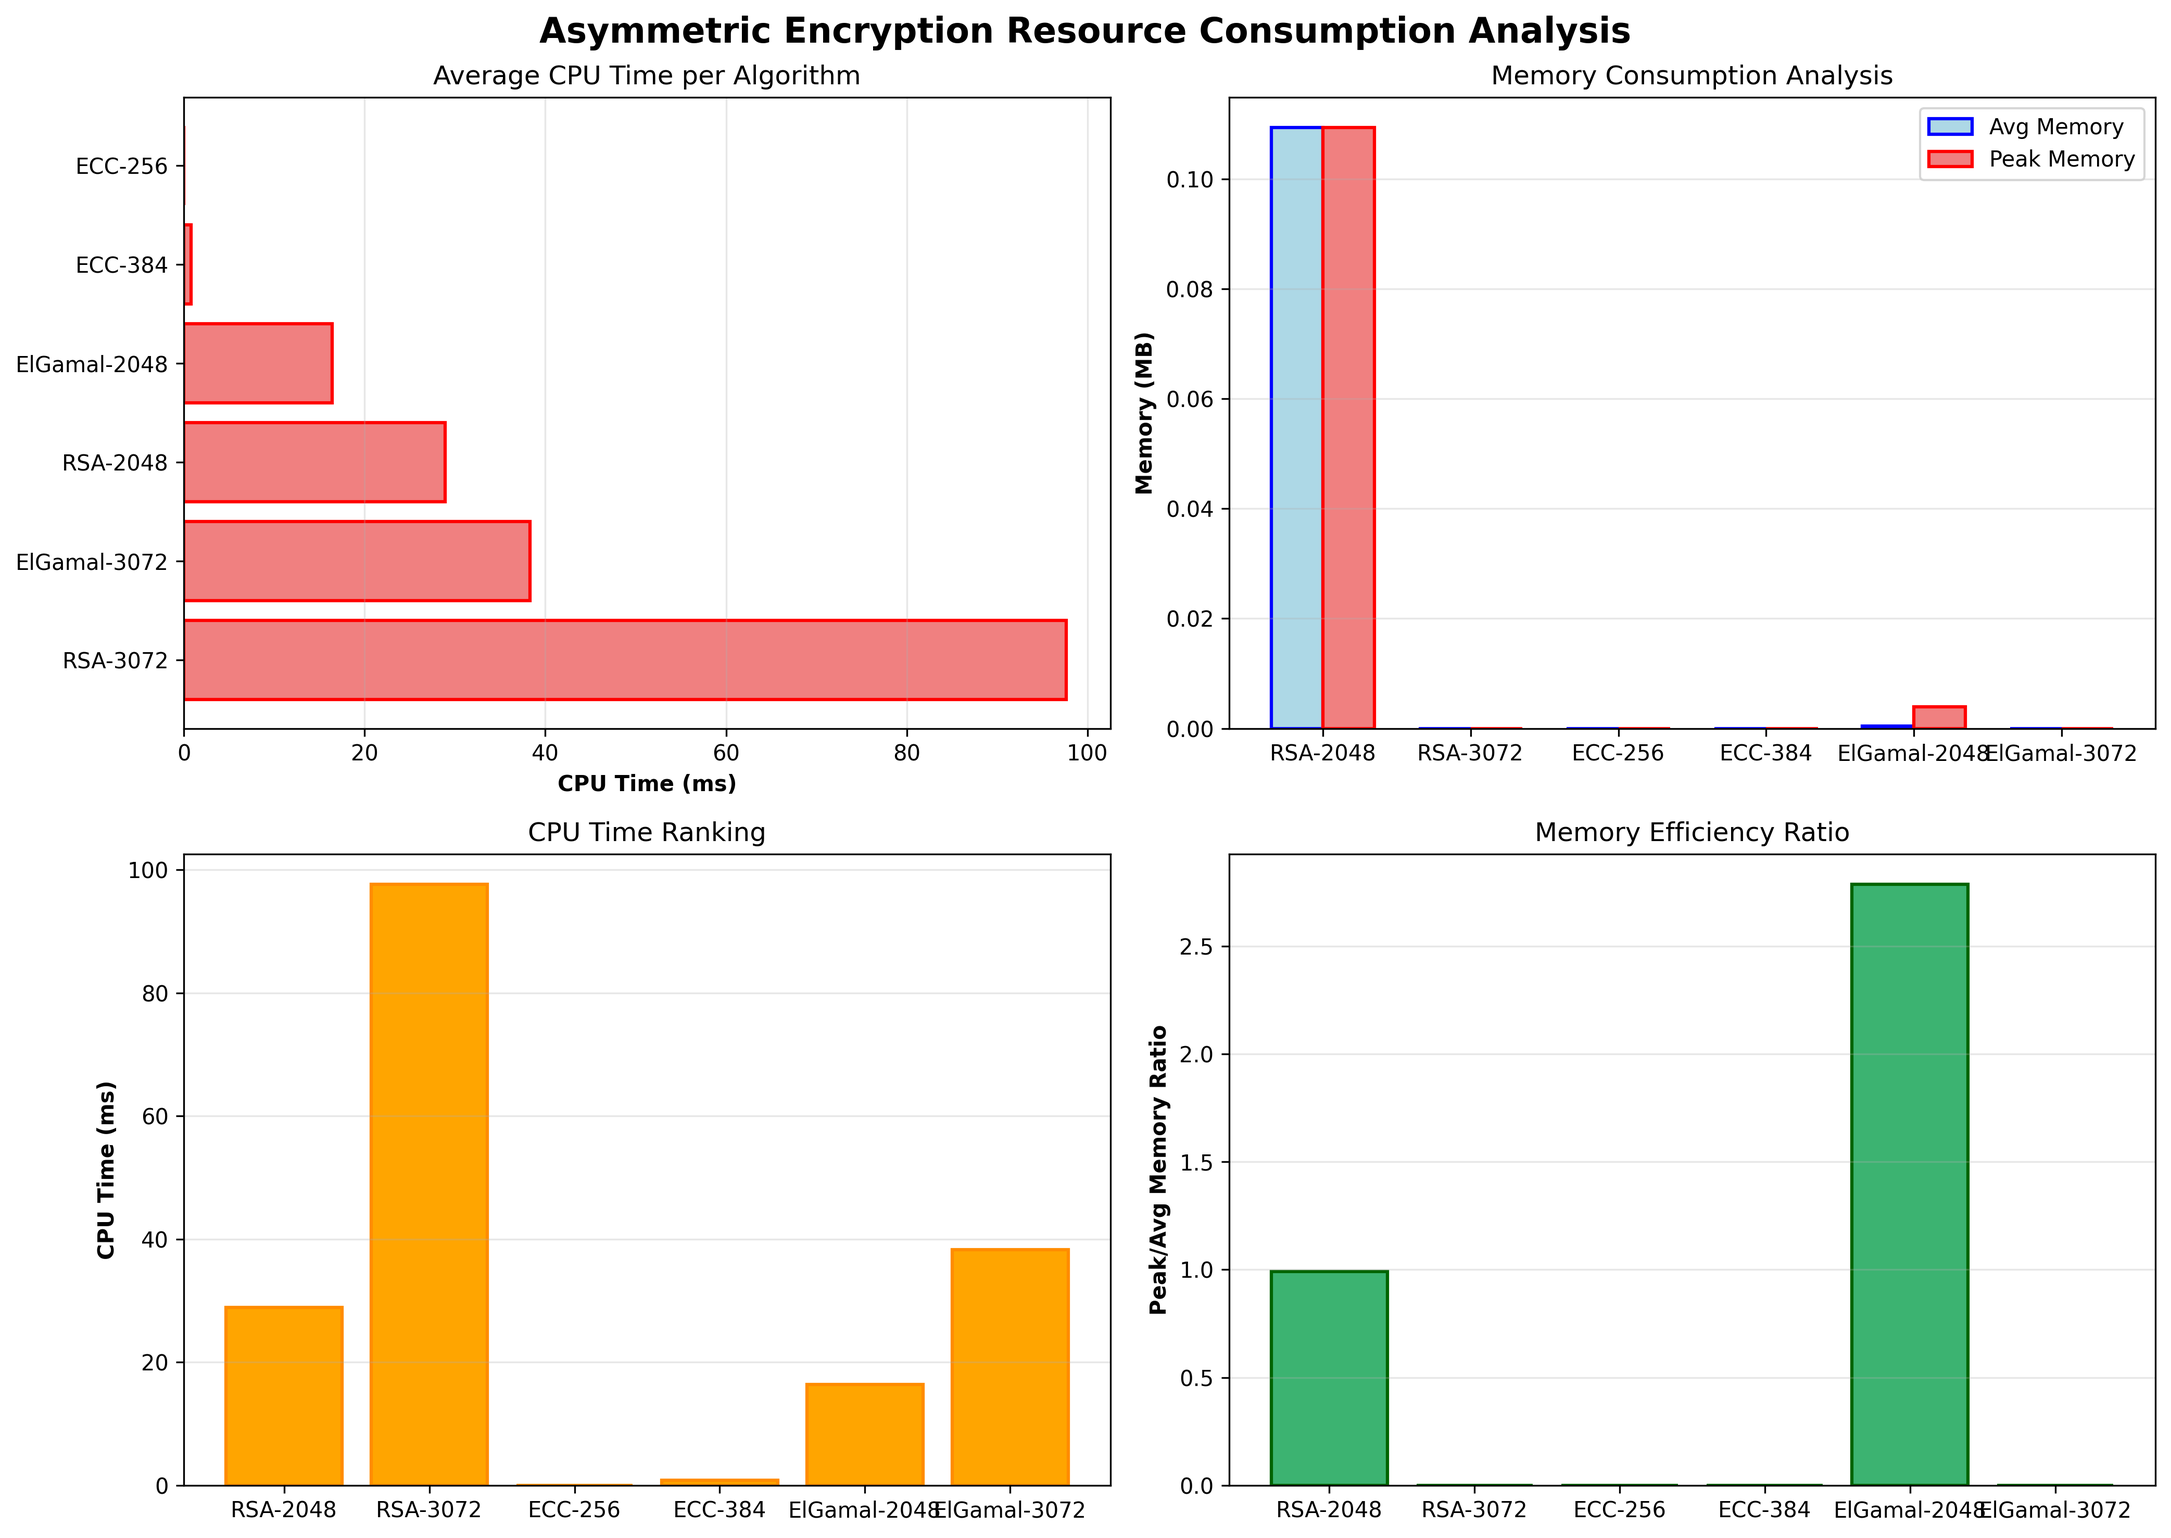
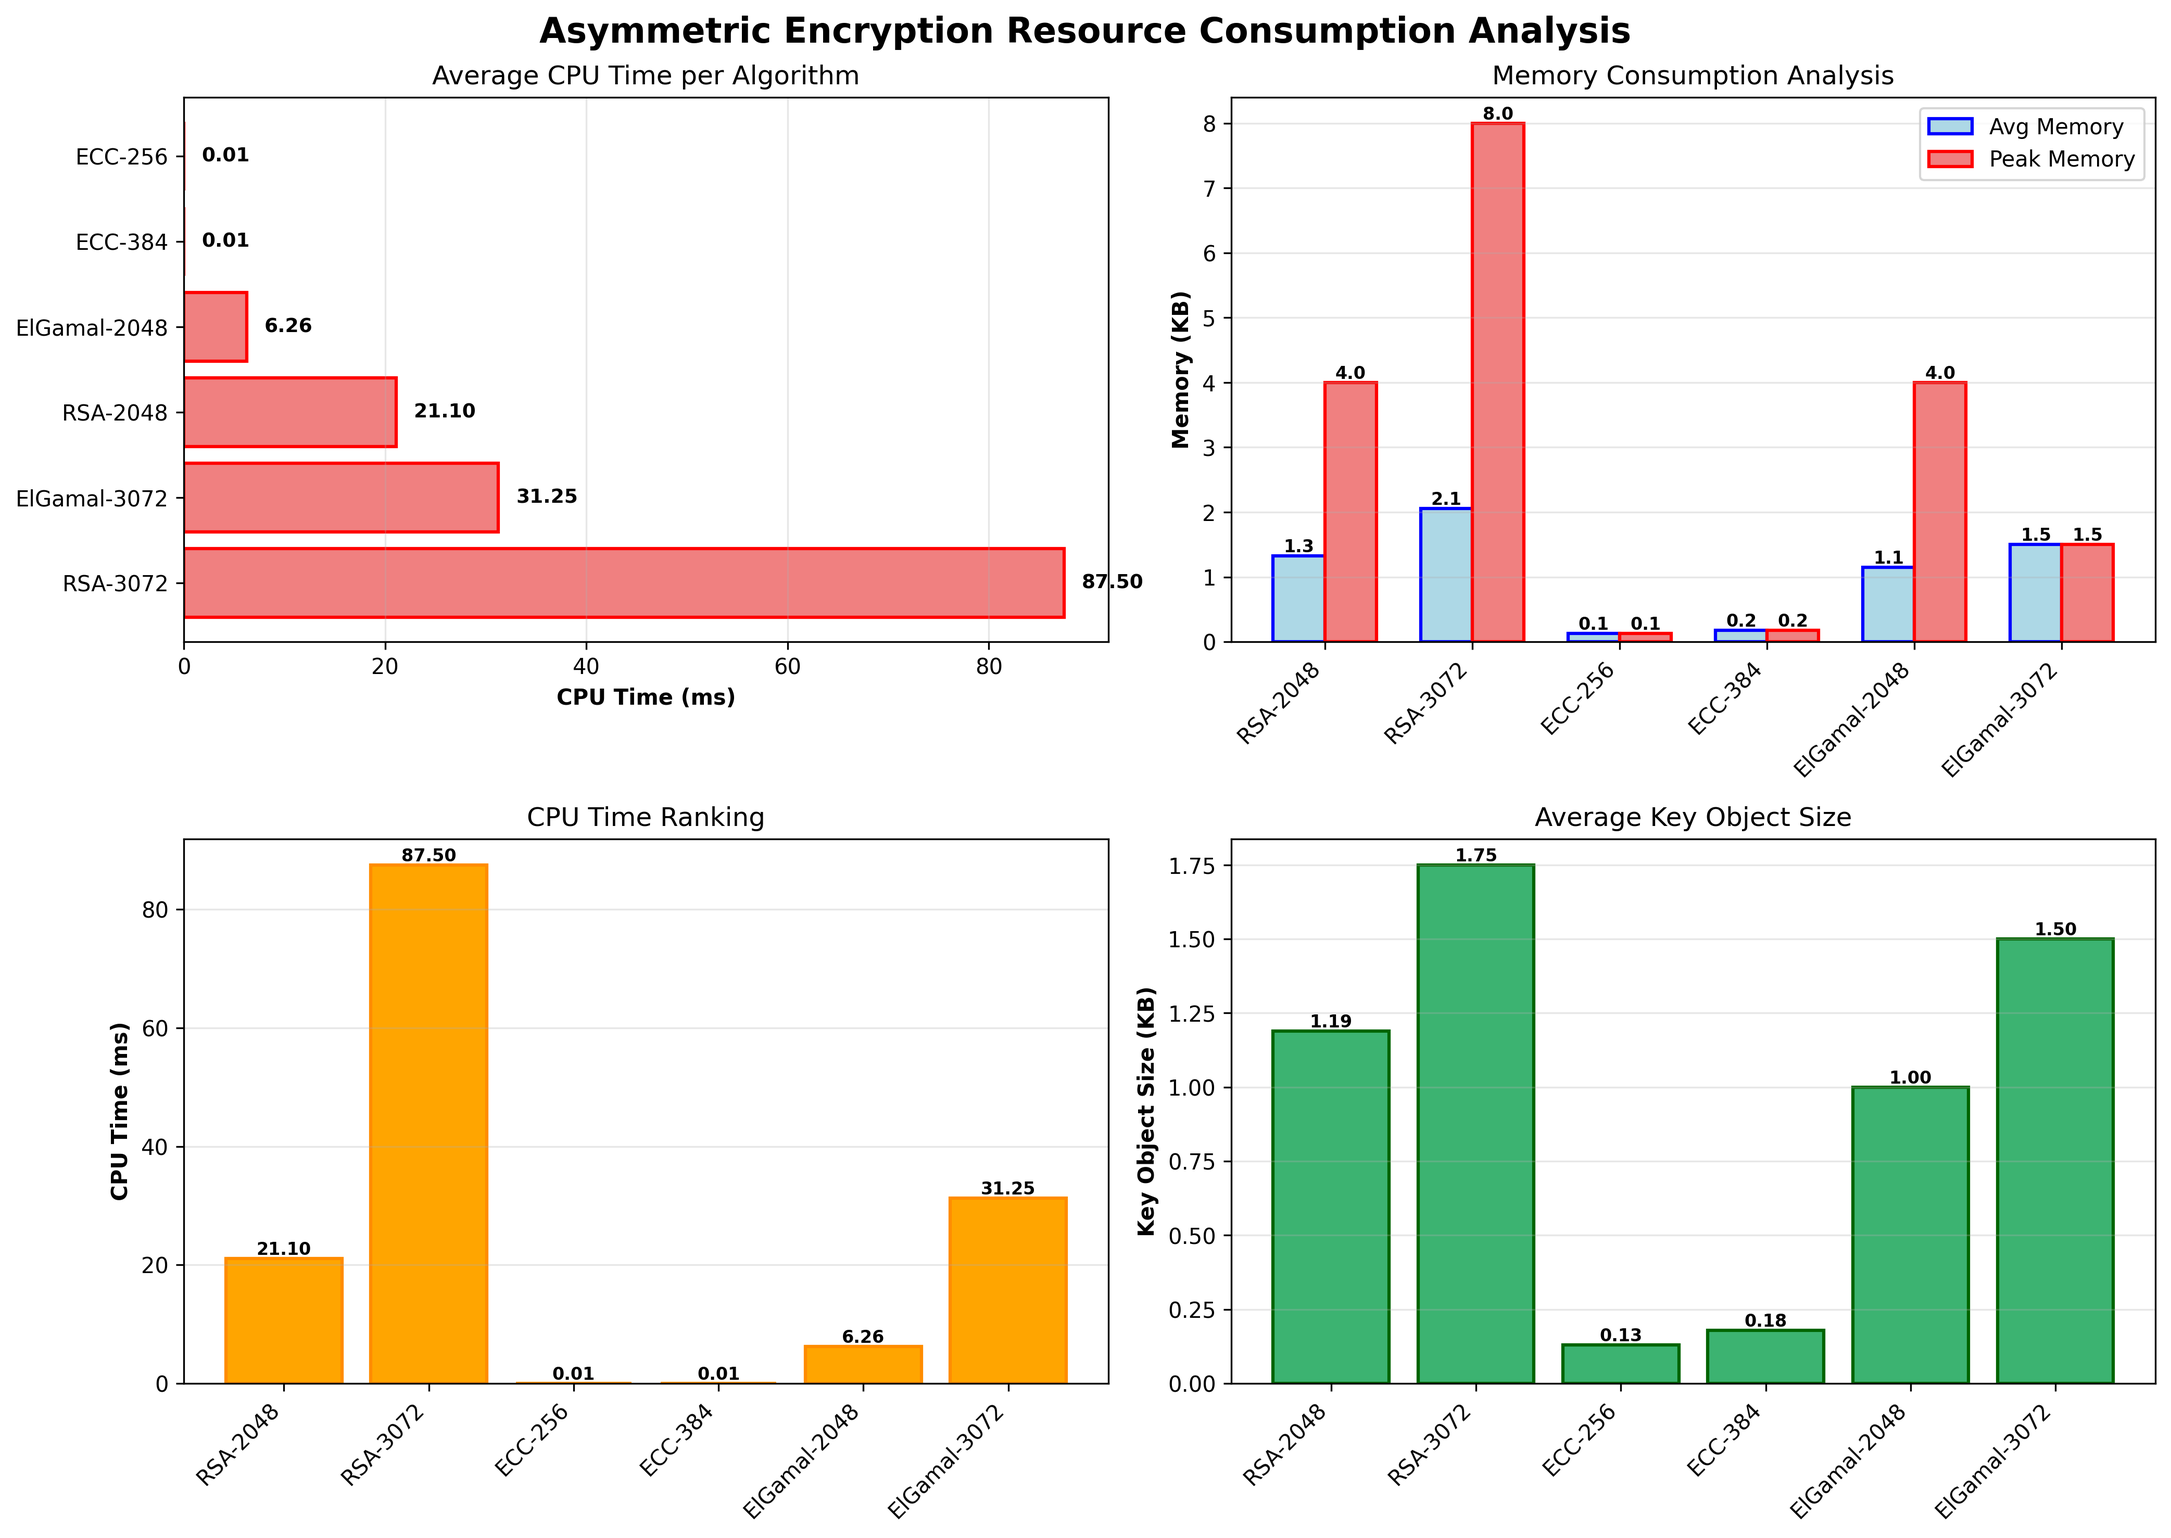
update asymmetric resourcec tests

diff --git a/src/asymmetric_analysis.py b/src/asymmetric_analysis.py
@@ -13,6 +13,7 @@ import csv
 import time
 import psutil
 import gc
+import sys
 import random
 import matplotlib.pyplot as plt
 import numpy as np
@@ -393,74 +394,122 @@ class AsymmetricEncryptionAnalysis:
             
             cpu_times = []
             memory_usage = []
-            
-            # Force garbage collection and establish baseline
-            gc.collect()
-            time.sleep(0.1)  # Let things settle
-            
-            # Take multiple baseline measurements
-            baselines = []
-            for _ in range(5):
-                baselines.append(self.process.memory_info().rss / (1024 * 1024))
-                time.sleep(0.01)
-            baseline_memory = np.median(baselines)
+            object_sizes = []
             
             # Reduce iterations for ElGamal
             iterations = self.iterations
             
             for i in range(iterations):
-                # Force garbage collection before measurement
+                # Force garbage collection multiple times before measurement
                 gc.collect()
+                gc.collect()
+                time.sleep(0.05)
+                
+                # Get baseline memory in bytes - take multiple samples
+                baseline_samples = []
+                for _ in range(3):
+                    baseline_samples.append(self.process.memory_info().rss)
+                    time.sleep(0.01)
+                mem_baseline = min(baseline_samples)  # Use minimum as baseline
                 
                 cpu_start = self.process.cpu_times()
-                mem_before = self.process.memory_info().rss / (1024 * 1024)
+                mem_samples = []
                 
-                # Perform key generation
+                # Perform key generation and sample memory during operation
                 if algo_config['type'] == 'RSA':
                     key = rsa.generate_private_key(
                         public_exponent=65537,
                         key_size=algo_config['key_size'],
                         backend=default_backend()
                     )
+                    # Sample memory multiple times after generation
+                    for _ in range(5):
+                        mem_samples.append(self.process.memory_info().rss)
+                    
+                    # Measure the serialized key size for object memory
+                    key_bytes = key.private_bytes(
+                        encoding=serialization.Encoding.DER,
+                        format=serialization.PrivateFormat.PKCS8,
+                        encryption_algorithm=serialization.NoEncryption()
+                    )
+                    object_sizes.append(len(key_bytes))
+                    
                 elif algo_config['type'] == 'ECC':
                     if algo_config['key_size'] == 256:
                         curve = ec.SECP256R1()
                     else:  # 384
                         curve = ec.SECP384R1()
                     key = ec.generate_private_key(curve, default_backend())
+                    # Sample memory multiple times after generation
+                    for _ in range(5):
+                        mem_samples.append(self.process.memory_info().rss)
+                    
+                    # Measure the serialized key size for object memory
+                    key_bytes = key.private_bytes(
+                        encoding=serialization.Encoding.DER,
+                        format=serialization.PrivateFormat.PKCS8,
+                        encryption_algorithm=serialization.NoEncryption()
+                    )
+                    object_sizes.append(len(key_bytes))
+                    
                 elif algo_config['type'] == 'ElGamal':
                     key = ElGamalSimulator(algo_config['key_size'])
+                    # Sample memory multiple times after generation
+                    for _ in range(5):
+                        mem_samples.append(self.process.memory_info().rss)
+                    
+                    # Estimate object size for ElGamal (p, g, x, y all ~key_size bits)
+                    estimated_size = (algo_config['key_size'] // 8) * 4  # 4 large integers
+                    object_sizes.append(estimated_size)
                 
-                mem_after = self.process.memory_info().rss / (1024 * 1024)
                 cpu_end = self.process.cpu_times()
                 
                 cpu_time = (cpu_end.user - cpu_start.user) * 1000
-                # Use the difference from baseline instead of just before/after
-                memory_delta = max(0, mem_after - baseline_memory)
+                
+                # Use the maximum memory sample minus baseline
+                if mem_samples:
+                    max_mem = max(mem_samples)
+                    memory_delta_bytes = max(0, max_mem - mem_baseline)
+                else:
+                    memory_delta_bytes = 0
+                
+                # If RSS didn't change, use object size as minimum memory estimate
+                if memory_delta_bytes == 0 and object_sizes:
+                    memory_delta_bytes = object_sizes[-1]  # Use actual object size
+                
+                memory_delta_kb = memory_delta_bytes / 1024.0
                 
                 cpu_times.append(cpu_time if cpu_time > 0 else 0.01)
-                memory_usage.append(memory_delta)
+                memory_usage.append(memory_delta_kb)
                 
-                # Clean up for next iteration
+                # Clean up
                 del key
+                if 'key_bytes' in locals():
+                    del key_bytes
+            
+            # Final cleanup
+            gc.collect()
             
             avg_cpu = np.mean(cpu_times)
-            avg_memory = np.mean(memory_usage)
-            peak_memory = np.max(memory_usage)
+            avg_memory_kb = np.mean(memory_usage)
+            peak_memory_kb = np.max(memory_usage)
+            avg_object_kb = np.mean(object_sizes) / 1024.0
             
             result = {
                 'algorithm': algo_name,
                 'key_size_bits': algo_config['key_size'],
                 'avg_cpu_time_ms': round(avg_cpu, 4),
-                'avg_memory_mb': round(avg_memory, 4),
-                'peak_memory_mb': round(peak_memory, 4),
+                'avg_memory_kb': round(avg_memory_kb, 2),
+                'peak_memory_kb': round(peak_memory_kb, 2),
+                'avg_object_size_kb': round(avg_object_kb, 2),
                 'iterations': self.iterations
             }
             
             self.resource_results.append(result)
             print(f"  CPU Time: {avg_cpu:.4f}ms | "
-                  f"Avg Memory: {avg_memory:.4f}MB | "
-                  f"Peak Memory: {peak_memory:.4f}MB")
+                  f"Avg Memory: {avg_memory_kb:.2f}KB | "
+                  f"Peak Memory: {peak_memory_kb:.2f}KB | "
+                  f"Obj Size: {avg_object_kb:.2f}KB")
     
     def save_performance_to_csv(self, filename='results/asymmetric/asymmetric_performance.csv'):
         """Save performance results to CSV"""
@@ -554,9 +603,9 @@ class AsymmetricEncryptionAnalysis:
             
             x = np.arange(len(enc_avg))
             width = 0.35
-            axes[0, 1].bar(x - width/2, enc_avg.values, width, label='Encryption', 
+            bars1 = axes[0, 1].bar(x - width/2, enc_avg.values, width, label='Encryption', 
                           color='lightcoral', edgecolor='red', linewidth=1.5)
-            axes[0, 1].bar(x + width/2, dec_avg.values, width, label='Decryption', 
+            bars2 = axes[0, 1].bar(x + width/2, dec_avg.values, width, label='Decryption', 
                           color='lightgreen', edgecolor='green', linewidth=1.5)
             axes[0, 1].set_ylabel('Time (ms)', fontweight='bold')
             axes[0, 1].set_title('Encryption vs Decryption Time')
@@ -564,6 +613,15 @@ class AsymmetricEncryptionAnalysis:
             axes[0, 1].set_xticklabels(enc_avg.index)
             axes[0, 1].legend()
             axes[0, 1].grid(True, alpha=0.3, axis='y')
+            
+            # Add value labels on bars
+            for i, (bar1, bar2) in enumerate(zip(bars1, bars2)):
+                height1 = bar1.get_height()
+                height2 = bar2.get_height()
+                axes[0, 1].text(bar1.get_x() + bar1.get_width()/2., height1,
+                              f'{height1:.4f}', ha='center', va='bottom', fontsize=8, fontweight='bold')
+                axes[0, 1].text(bar2.get_x() + bar2.get_width()/2., height2,
+                              f'{height2:.4f}', ha='center', va='bottom', fontsize=8, fontweight='bold')
         
         # Plot 3: Ciphertext size comparison
         if len(df_enc_dec) > 0:
@@ -684,40 +742,80 @@ class AsymmetricEncryptionAnalysis:
         
         # Plot 1: CPU usage comparison
         sorted_cpu = df.sort_values('avg_cpu_time_ms', ascending=False)
-        axes[0, 0].barh(sorted_cpu['algorithm'], sorted_cpu['avg_cpu_time_ms'], 
+        bars_cpu = axes[0, 0].barh(sorted_cpu['algorithm'], sorted_cpu['avg_cpu_time_ms'], 
                        color='lightcoral', edgecolor='red', linewidth=1.5)
         axes[0, 0].set_xlabel('CPU Time (ms)', fontweight='bold')
         axes[0, 0].set_title('Average CPU Time per Algorithm')
         axes[0, 0].grid(True, alpha=0.3, axis='x')
         
+        # Add value labels on CPU bars
+        for i, (bar, val) in enumerate(zip(bars_cpu, sorted_cpu['avg_cpu_time_ms'].values)):
+            axes[0, 0].text(val + max(sorted_cpu['avg_cpu_time_ms'])*0.02, i, f'{val:.2f}', 
+                           va='center', fontsize=9, fontweight='bold')
+        
         # Plot 2: Memory consumption
         x = np.arange(len(df))
         width = 0.35
-        axes[0, 1].bar(x - width/2, df['avg_memory_mb'], width, label='Avg Memory', 
+        bars_avg = axes[0, 1].bar(x - width/2, df['avg_memory_kb'], width, label='Avg Memory', 
                       color='lightblue', edgecolor='blue', linewidth=1.5)
-        axes[0, 1].bar(x + width/2, df['peak_memory_mb'], width, label='Peak Memory', 
+        bars_peak = axes[0, 1].bar(x + width/2, df['peak_memory_kb'], width, label='Peak Memory', 
                       color='lightcoral', edgecolor='red', linewidth=1.5)
-        axes[0, 1].set_ylabel('Memory (MB)', fontweight='bold')
+        axes[0, 1].set_ylabel('Memory (KB)', fontweight='bold')
         axes[0, 1].set_title('Memory Consumption Analysis')
         axes[0, 1].set_xticks(x)
-        axes[0, 1].set_xticklabels(df['algorithm'])
+        axes[0, 1].set_xticklabels(df['algorithm'], rotation=45, ha='right')
         axes[0, 1].legend()
         axes[0, 1].grid(True, alpha=0.3, axis='y')
         
+        # Add value labels on memory bars
+        for bar_avg, bar_peak, val_avg, val_peak in zip(bars_avg, bars_peak, 
+                                                          df['avg_memory_kb'].values, 
+                                                          df['peak_memory_kb'].values):
+            height_avg = bar_avg.get_height()
+            height_peak = bar_peak.get_height()
+            if height_avg > 0:
+                axes[0, 1].text(bar_avg.get_x() + bar_avg.get_width()/2., height_avg,
+                              f'{val_avg:.1f}', ha='center', va='bottom', fontsize=8, fontweight='bold')
+            if height_peak > 0:
+                axes[0, 1].text(bar_peak.get_x() + bar_peak.get_width()/2., height_peak,
+                              f'{val_peak:.1f}', ha='center', va='bottom', fontsize=8, fontweight='bold')
+        
         # Plot 3: CPU time ranking
-        axes[1, 0].bar(df['algorithm'], df['avg_cpu_time_ms'], color='orange', 
+        bars_cpu_rank = axes[1, 0].bar(df['algorithm'], df['avg_cpu_time_ms'], color='orange', 
                       edgecolor='darkorange', linewidth=1.5)
         axes[1, 0].set_ylabel('CPU Time (ms)', fontweight='bold')
         axes[1, 0].set_title('CPU Time Ranking')
+        axes[1, 0].set_xticklabels(df['algorithm'], rotation=45, ha='right')
         axes[1, 0].grid(True, alpha=0.3, axis='y')
         
-        # Plot 4: Memory efficiency
-        df['memory_efficiency'] = df['peak_memory_mb'] / (df['avg_memory_mb'] + 0.001)
-        axes[1, 1].bar(df['algorithm'], df['memory_efficiency'], color='mediumseagreen', 
-                      edgecolor='darkgreen', linewidth=1.5)
-        axes[1, 1].set_ylabel('Peak/Avg Memory Ratio', fontweight='bold')
-        axes[1, 1].set_title('Memory Efficiency Ratio')
-        axes[1, 1].grid(True, alpha=0.3, axis='y')
+        # Add value labels on CPU ranking bars
+        for bar, val in zip(bars_cpu_rank, df['avg_cpu_time_ms'].values):
+            height = bar.get_height()
+            axes[1, 0].text(bar.get_x() + bar.get_width()/2., height,
+                          f'{val:.2f}', ha='center', va='bottom', fontsize=8, fontweight='bold')
+        
+        # Plot 4: Object size comparison
+        if 'avg_object_size_kb' in df.columns:
+            bars_obj = axes[1, 1].bar(df['algorithm'], df['avg_object_size_kb'], color='mediumseagreen', 
+                          edgecolor='darkgreen', linewidth=1.5)
+            axes[1, 1].set_ylabel('Key Object Size (KB)', fontweight='bold')
+            axes[1, 1].set_title('Average Key Object Size')
+            axes[1, 1].set_xticklabels(df['algorithm'], rotation=45, ha='right')
+            axes[1, 1].grid(True, alpha=0.3, axis='y')
+            
+            # Add value labels on object size bars
+            for bar, val in zip(bars_obj, df['avg_object_size_kb'].values):
+                height = bar.get_height()
+                axes[1, 1].text(bar.get_x() + bar.get_width()/2., height,
+                              f'{val:.2f}', ha='center', va='bottom', fontsize=8, fontweight='bold')
+        else:
+            # Fallback to memory efficiency if object size not available
+            df['memory_efficiency'] = df['peak_memory_kb'] / (df['avg_memory_kb'] + 0.1)
+            axes[1, 1].bar(df['algorithm'], df['memory_efficiency'], color='mediumseagreen', 
+                          edgecolor='darkgreen', linewidth=1.5)
+            axes[1, 1].set_ylabel('Peak/Avg Memory Ratio', fontweight='bold')
+            axes[1, 1].set_title('Memory Efficiency Ratio')
+            axes[1, 1].grid(True, alpha=0.3, axis='y')
         
         plt.tight_layout()
         plt.savefig(filename, dpi=300, bbox_inches='tight')
